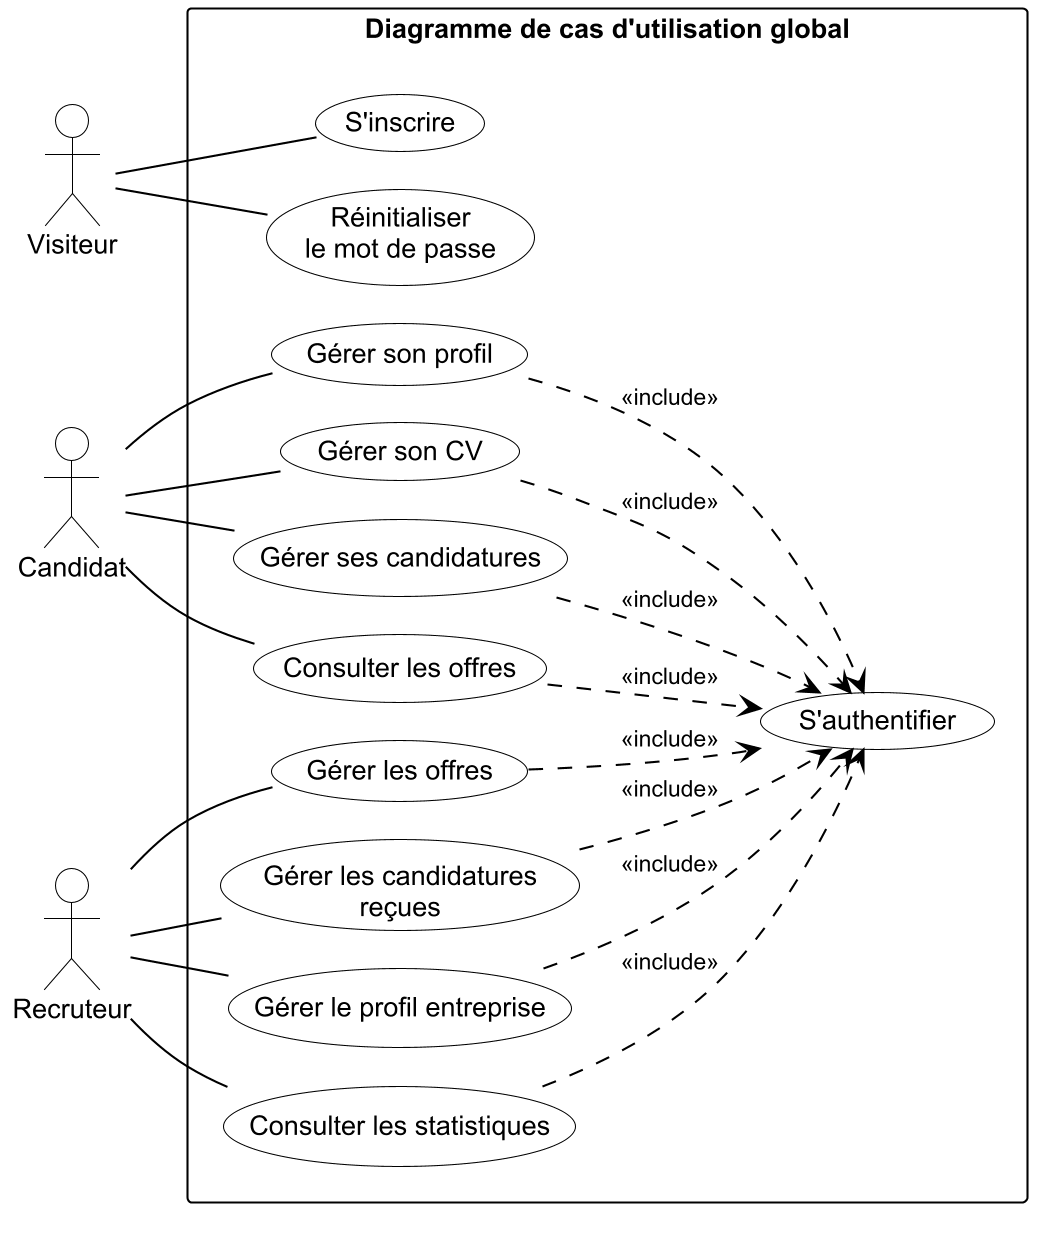
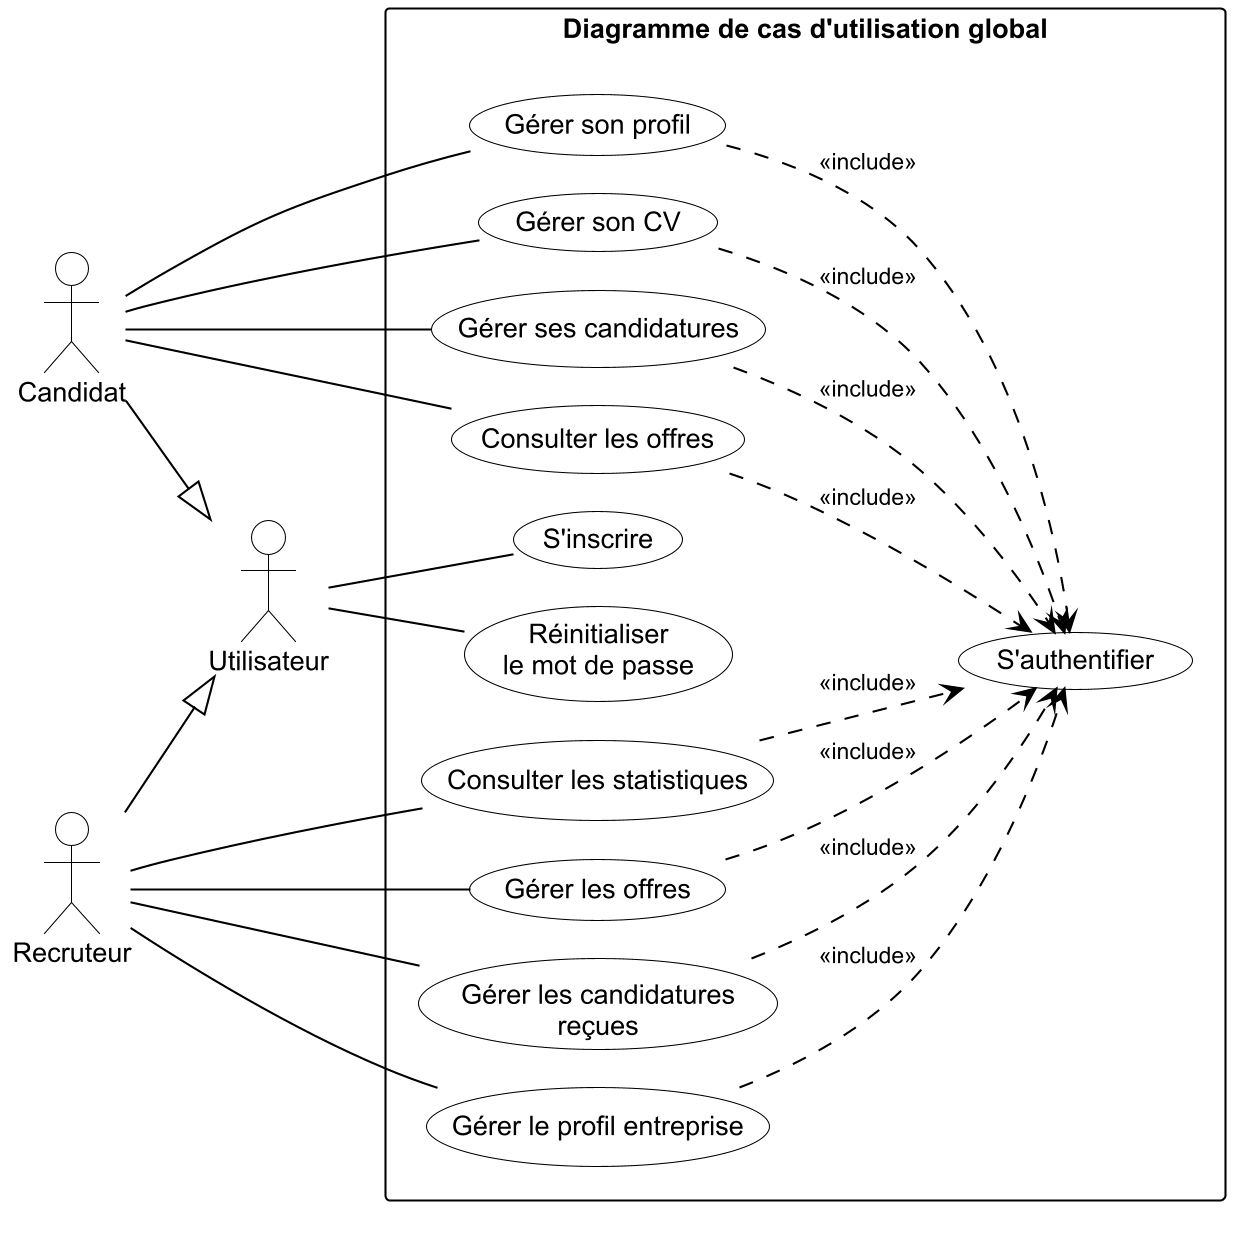
docs(report): actors as a generalization (Utilisateur, Candidat, Recruteur)

diff --git a/docs/rapport/rapport.tex b/docs/rapport/rapport.tex
@@ -362,14 +362,14 @@ Ce chapitre est consacré à l'analyse des besoins. Nous identifions d'abord les
 \section{Capture des besoins}
 
 \subsection{Identification des acteurs}
-Un acteur est une entité (personne ou système) qui interagit avec l'application. Nous distinguons trois acteurs principaux et trois acteurs secondaires (tableau \ref{tab:acteurs}).
+Un acteur est une entité (personne ou système) qui interagit avec l'application. Nous distinguons deux acteurs principaux, le candidat et le recruteur, qui héritent tous deux d'un acteur général, l'utilisateur, ainsi que trois acteurs secondaires (tableau \ref{tab:acteurs}).
 
 \begin{table}[H]
 \centering
 \begin{tabularx}{\textwidth}{|p{3.4cm}|L|}
 \hline
 \rowcolor{headgray}\thead{Acteur} & \thead{Rôle} \\ \hline
-Visiteur & Personne non connectée : crée un compte, se connecte, réinitialise son mot de passe. \\ \hline
+Utilisateur \newline \footnotesize(acteur général) & Rôle commun au candidat et au recruteur : s'inscrit, s'authentifie et réinitialise son mot de passe. \\ \hline
 Candidat & Gère son profil et son CV, recherche des offres, consulte sa compatibilité avec une offre, postule et suit ses candidatures. \\ \hline
 Recruteur & Gère le profil de son entreprise et ses offres, traite les candidatures, évalue les candidats et consulte les statistiques. \\ \hline
 Service IA \newline \footnotesize(secondaire) & Service interne qui extrait le texte des CV, calcule la compatibilité et importe le profil d'une entreprise. \\ \hline
@@ -425,7 +425,7 @@ Les besoins fonctionnels décrivent ce que le système doit faire pour chaque ac
 \section{Spécification des besoins}
 
 \subsection{Diagramme de cas d'utilisation global}
-La figure \ref{fig:uc-global} présente les différentes fonctionnalités que notre système propose aux acteurs. Chaque cas d'utilisation, sauf l'inscription et la réinitialisation du mot de passe, nécessite une authentification préalable.
+La figure \ref{fig:uc-global} présente les différentes fonctionnalités que notre système propose aux acteurs. Le candidat et le recruteur héritent de l'utilisateur : ils peuvent donc tous deux s'inscrire et réinitialiser leur mot de passe. Chacun dispose ensuite de ses propres fonctionnalités, qui nécessitent toutes une authentification préalable.
 
 \begin{figure}[H]\centering
 \includegraphics[width=0.8\textwidth,height=0.7\textheight,keepaspectratio]{cas-utilisation-global.png}
@@ -605,7 +605,7 @@ Le backlog du produit regroupe les fonctionnalités sous forme d'histoires utili
 \hline
 \rowcolor{headgray}\thead{ID} & \thead{Fonctionnalité} & \thead{User story} & \thead{Priorité} \\ \hline
 \endhead
-01 & Authentification & En tant que visiteur, je veux créer un compte et être connecté directement. & Élevée \\ \cline{3-4}
+01 & Authentification & En tant qu'utilisateur, je veux créer un compte et être connecté directement. & Élevée \\ \cline{3-4}
  & & En tant qu'utilisateur, je veux réinitialiser mon mot de passe par e-mail. & Élevée \\ \hline
 02 & Gestion des offres & En tant que recruteur, je veux publier, modifier et supprimer une offre. & Élevée \\ \cline{3-4}
  & & En tant que recruteur, je veux clôturer une offre sans perdre ses candidats. & Moyenne \\ \hline
